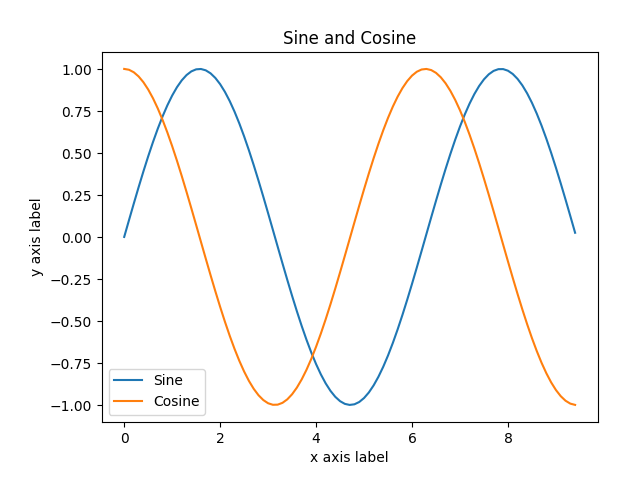
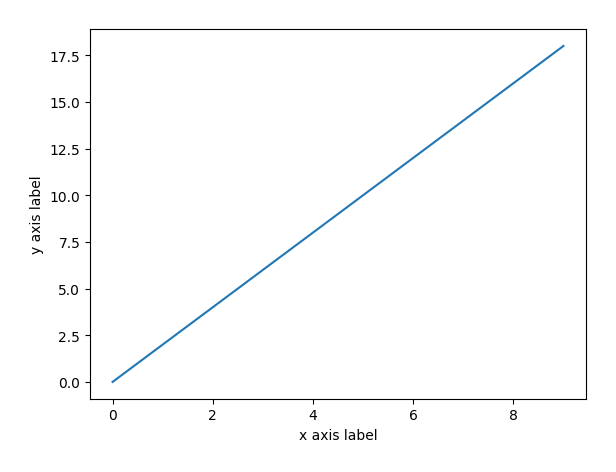
ikke ferdig

diff --git a/main.py b/main.py
@@ -8,53 +8,90 @@ window = Tk()
 #window.geometry('400x250')
 window.title('Plotter')
 
-input = StringVar(window)
+input = StringVar(window)  # Tekst for graf
+x0 = StringVar(window) # X0 input
+x1 = StringVar(window) # X1 input
+x_interval = StringVar(window) # interval steps X input
 
 frame_input = ttk.Frame(window,height=5)
 frame_input.grid(row=0)
 
+
+input_formula = ttk.Entry(frame_input,textvariable=input)
+input_formula.grid(row=0,column=1)
+label_formula = ttk.Label(frame_input,text='Function')
+label_formula.grid(row=0,column=0)
+
+input_x0 = ttk.Entry(frame_input,textvariable=x0)
+input_x0.grid(row=1,column=1)
+label_x0 = ttk.Label(frame_input,text='X0')
+label_x0.grid(row=1,column=0)
+
+input_x1 = ttk.Entry(frame_input,textvariable=x1)
+input_x1.grid(row=2,column=1)
+label_x1 = ttk.Label(frame_input,text='X1')
+label_x1.grid(row=2,column=0)
+
+input_x_interval = ttk.Entry(frame_input,textvariable=x_interval)
+input_x_interval.grid(row=3,column=1)
+label_x_interval = ttk.Label(frame_input,text='steps')
+label_x_interval.grid(row=3,column=0)
+
 frame_plot = ttk.Frame(window)
 frame_plot.grid(row=1)
-
-
-# Computes x and y coordinates for 
-# points on sine and cosine curves 
-x = np.arange(0, 3 * np.pi, 0.1) 
-y_sin = np.sin(x) 
-y_cos = np.cos(x) 
-
-# Plot the points using matplotlib 
-plt.plot(x, y_sin) 
-plt.plot(x, y_cos) 
-plt.xlabel('x axis label') 
-plt.ylabel('y axis label') 
-plt.title('Sine and Cosine') 
-plt.legend(['Sine', 'Cosine']) 
-
-#plt.show()
-plt.savefig("data/plot.png",
-            facecolor='white',
-            bbox_inches="tight",
-            pad_inches=0.3,
-            transparent=True)
-
-Input_field = ttk.Entry(frame_input,)
-Input_field.grid()
-
-# arranging application parameters 
 canvas = Canvas(frame_plot,
                 width = 600, 
 				height = 600) 
 
 canvas.grid() 
 
-# loading the image 
-img = ImageTk.PhotoImage(Image.open("data/plot.png")) 
+def showplot():
+    # loading the image 
+    img = ImageTk.PhotoImage(Image.open("data/plot.png")) 
+    # arranging application parameters 
+   
 
-# arranging image parameters 
-# in the application 
-canvas.create_image(0,0, anchor = NW, 
+    # arranging image parameters 
+    # in the application 
+    canvas.create_image(0,0, anchor = NW, 
 				image = img) 
+    
+
+def createplot():
+    
+    tmp_x0 = eval(x0.get())
+    tmp_x1 = eval(x1.get())
+    tmp_x_interval = eval(x_interval.get())
+    
+    
+    x = np.arange(tmp_x0,tmp_x1,tmp_x_interval) 
+   
+    y = eval(input.get())
+    
+   
+
+    # Plot the points using matplotlib 
+    plt.plot(x, y) 
+   # plt.plot(x, y_cos) 
+    plt.xlabel('x axis label') 
+    plt.ylabel('y axis label') 
+    #plt.title('Sine and Cosine') 
+    #plt.legend(['Sine', 'Cosine']) 
+
+    #plt.show()
+    plt.savefig("data/plot.png",
+                facecolor='white',
+                bbox_inches="tight",
+                pad_inches=0.3,
+                transparent=True)
+    
+    
+
+input_button = ttk.Button(frame_input,text='Create Plot',command=createplot)
+input_button.grid(row=0,column=2,rowspan=2)
+input_button = ttk.Button(frame_input,text='Show Plot',command=showplot)
+input_button.grid(row=1,column=2,rowspan=2)
+
 
 # running the application 
 window.mainloop() 
